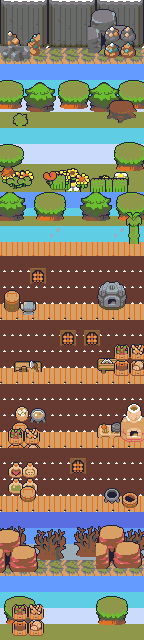
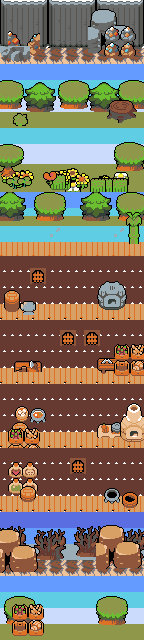
Phase 3 step 6: scene art uses the shared DB32 remap (scripts/art/remap.py)
Claude-Session: https://claude.ai/code/session_016aaUfwGMLmcEwrxDPBDi5y

diff --git a/scripts/art/scenelib.py b/scripts/art/scenelib.py
@@ -1,29 +1,14 @@
-"""Shared helpers for the scene art build (DB32 remap, ramps, shelf packer).
-NOTE: scripts/art/remap.py (icons agent, branch phase3/art-icons) is the shared remap tool; swap `remap_db32`
-for it at merge time."""
+"""Shared helpers for the scene art build (ramps, shelf packer). DB32 remapping is the shared remap.py."""
 import numpy as np
 from PIL import Image
-
-DB32 = ['000000','222034','45283c','663931','8f563b','df7126','d9a066','eec39a','fbf236','99e550','6abe30','37946e',
-        '4b692f','524b24','323c39','3f3f74','306082','5b6ee1','639bff','5fcde4','cbdbfc','ffffff','9badb7','847e87',
-        '696a6a','595652','76428a','ac3232','d95763','d77bba','8f974a','8a6f30']
-PAL = np.array([[int(h[i:i+2], 16) for i in (0, 2, 4)] for h in DB32], dtype=np.int32)
+from remap import remap_image
 
 def rgb(h):
     h = h.lstrip('#'); return np.array([int(h[i:i+2], 16) for i in (0, 2, 4)], dtype=np.float32)
 
 def remap_db32(img):
-    """Nearest-colour DB32 remap (RGB euclidean); alpha is binarised at 128."""
-    a = np.array(img.convert('RGBA'))
-    flat = a[..., :3].reshape(-1, 3).astype(np.int32)
-    uniq, inv = np.unique(flat, axis=0, return_inverse=True)
-    d = ((uniq[:, None, :] - PAL[None, :, :]) ** 2).sum(-1)
-    m = PAL[d.argmin(1)][inv.reshape(-1)].reshape(a.shape[0], a.shape[1], 3)
-    out = np.zeros_like(a)
-    out[..., :3] = m
-    out[..., 3] = np.where(a[..., 3] >= 128, 255, 0)
-    out[out[..., 3] == 0, :3] = 0
-    return Image.fromarray(out, 'RGBA')
+    """DB32 remap via the shared scripts/art/remap.py (Lab nearest colour, binary alpha at 128)."""
+    return remap_image(img)
 
 def ramp_tint(img, stops, lo=40.0, hi=250.0):
     """Recolour by luminance through a list of hex stops (dark -> light)."""
